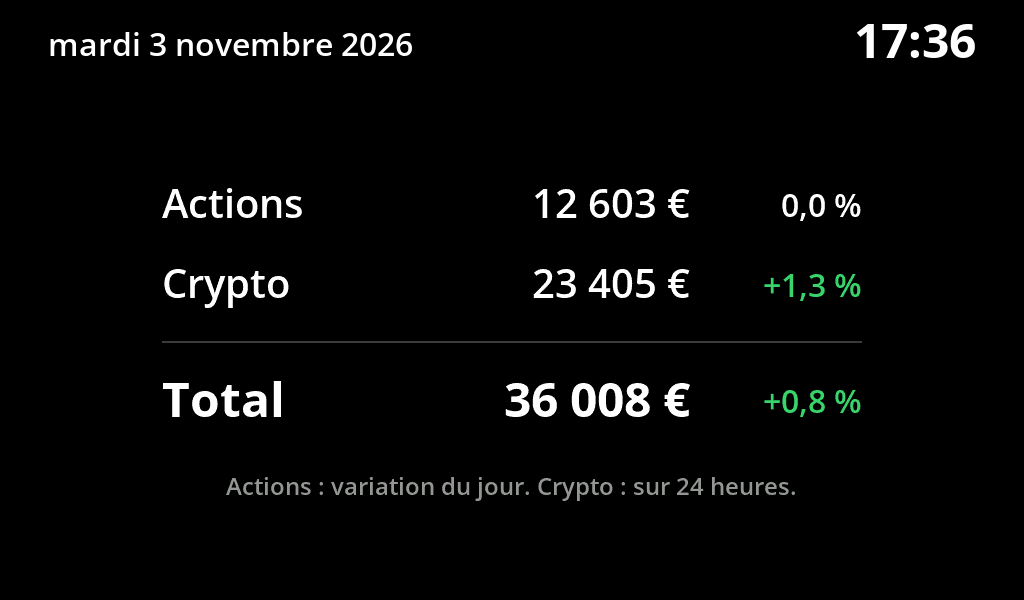
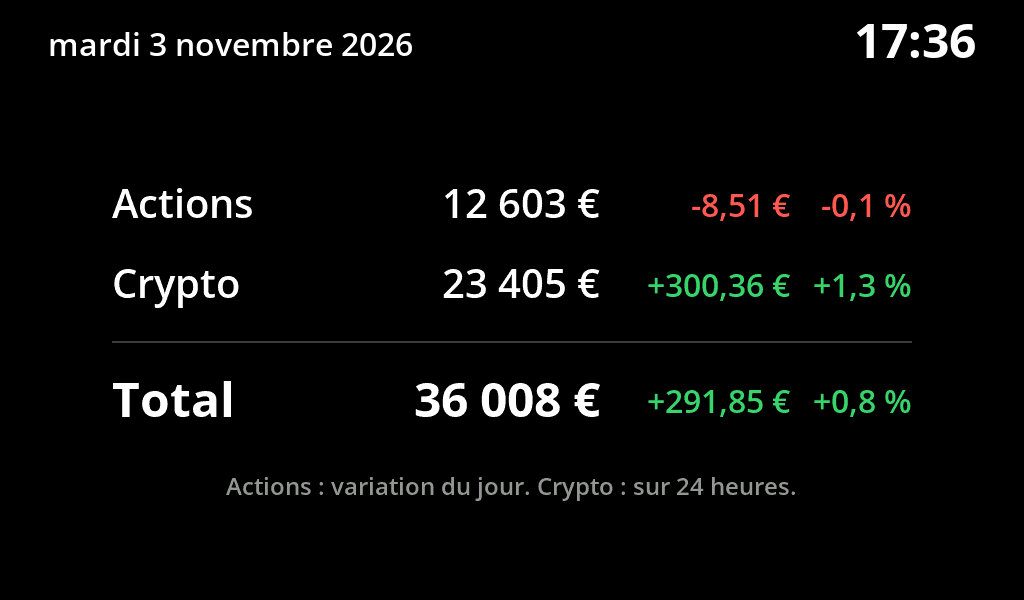
feat: page Wikipédia, gain du jour en euros, palettes d'écran partagées
- page wikipédia : article du jour de la rubrique « Lumière sur » de Wikipédia FR, avec son image, mis en page comme la page Sonos
- page fortune : gain ou perte du jour en euros à côté du pourcentage, pour les actions, la crypto et le total
- écran : palettes de 16 couleurs communes aux lignes au lieu d'une par ligne ; nettement plus de RAM interne libre
- actions : une connexion HTTP/1.1 gardée ouverte pour tous les titres (réponses en morceaux décodées), correspondances ISIN gardées en flash ; un tour de 37 titres passe d'une minute à 8 secondes
- écriture des fichiers des actions pendant le noir d'un changement de page, pour ne pas faire rater d'image
- décodeur JPEG commun (jpeg.cpp) pour la pochette Sonos et l'image de Wikipédia
- variations et couleurs hausse, baisse et filet communes aux pages crypto, actions et fortune
- back office : état de Wikipédia, durée d'un tour de lecture des actions, palettes libres
- README : page Wikipédia, capture de la page fortune refaite

diff --git a/src/plugins/fortune.cpp b/src/plugins/fortune.cpp
@@ -1,5 +1,6 @@
 // Page fortune : ce que valent les actions (stocks.h) et les cryptos (crypto.h) dont une quantité
-// est saisie dans le back office, chacune avec sa variation, puis leur total
+// est saisie dans le back office, chacune avec ce qu'elle a gagné ou perdu, en euros et en pour
+// cent, puis leur total
 #include "crypto.h"
 #include "fonts/font_sans24.h"
 #include "fonts/font_sans32.h"
@@ -12,9 +13,11 @@
 #define ROW_H       80
 #define TOTAL_H     110  // filet, puis le total
 #define NOTE_H      60   // la note sous le total
-#define LABEL_X     162
-#define VALUE_R     690  // bord droit des montants
-#define CHANGE_R    862  // bord droit des variations
+#define LABEL_X     112
+#define LABEL_W     240
+#define VALUE_R     600  // bord droit des montants : "123 456 €" fait 216 pixels en grand
+#define GAIN_R      790  // bord droit des gains ou pertes en euros
+#define CHANGE_R    912  // bord droit des variations en pour cent ; le tableau est centré
 
 static uint32_t shown_stocks, shown_crypto;  // versions affichées
 
@@ -56,13 +59,26 @@ static Holding coins() {
   return h;
 }
 
+// Gain ou perte en euros, de la même couleur que la variation en pour cent : "+123,45 €", "-1 234 €"
+static void gain(int16_t x, int16_t y, int16_t w, double delta) {
+  char text[32];
+  bool flat = fabs(delta) < 0.005;
+  text[0] = delta < 0 ? '-' : '+';
+  // Sous 1 €, deux décimales aussi : formatEuros() en met quatre, pour les cours des petites cryptos
+  if (fabs(delta) >= 0.995) formatEuros(fabs(delta), text + !flat, sizeof(text) - 1);
+  else snprintf(text + !flat, sizeof(text) - 1, "0,%02d €", flat ? 0 : (int)lround(fabs(delta) * 100) % 100);
+  gfxTextBox(x, y, w, text, font_sans32, flat ? COLOR_TEXT : delta < 0 ? COLOR_DOWN : COLOR_UP, COLOR_BG, GFX_RIGHT);
+}
+
 static void line(int16_t y, const char *label, const Holding &h, const GfxFont &font) {
   char text[32];
   int16_t dy = (font.line_height - font_sans32.line_height) / 2 + 2;
-  gfxTextBox(LABEL_X, y, 260, label, font, COLOR_TEXT, COLOR_BG);
+  gfxTextBox(LABEL_X, y, LABEL_W, label, font, COLOR_TEXT, COLOR_BG);
   formatEuros(h.value, text, sizeof(text));
-  gfxTextBox(LABEL_X + 260, y, VALUE_R - LABEL_X - 260, text, font, COLOR_TEXT, COLOR_BG, GFX_RIGHT);
-  if (h.before > 0) pluginDrawChange(VALUE_R + 8, y + dy, CHANGE_R - VALUE_R - 8, (h.value / h.before - 1) * 100, font_sans32);
+  gfxTextBox(LABEL_X + LABEL_W, y, VALUE_R - LABEL_X - LABEL_W, text, font, COLOR_TEXT, COLOR_BG, GFX_RIGHT);
+  if (h.before <= 0) return;
+  gain(VALUE_R + 8, y + dy, GAIN_R - VALUE_R - 8, h.value - h.before);
+  pluginDrawChange(GAIN_R + 8, y + dy, CHANGE_R - GAIN_R - 8, (h.value / h.before - 1) * 100, font_sans32);
 }
 
 static void draw() {
